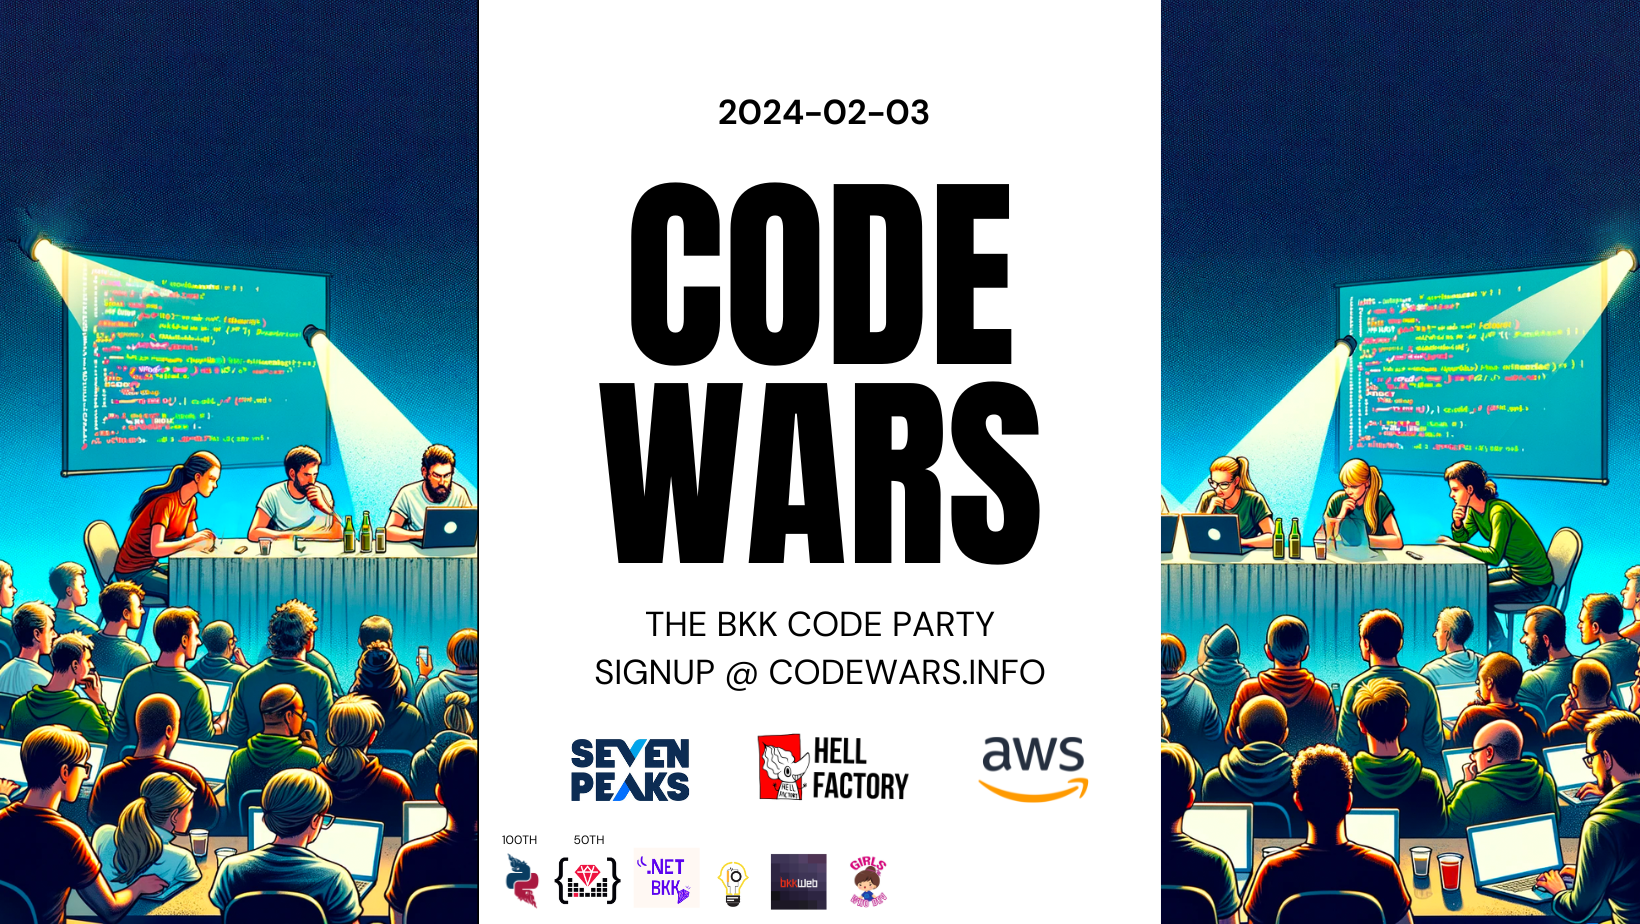
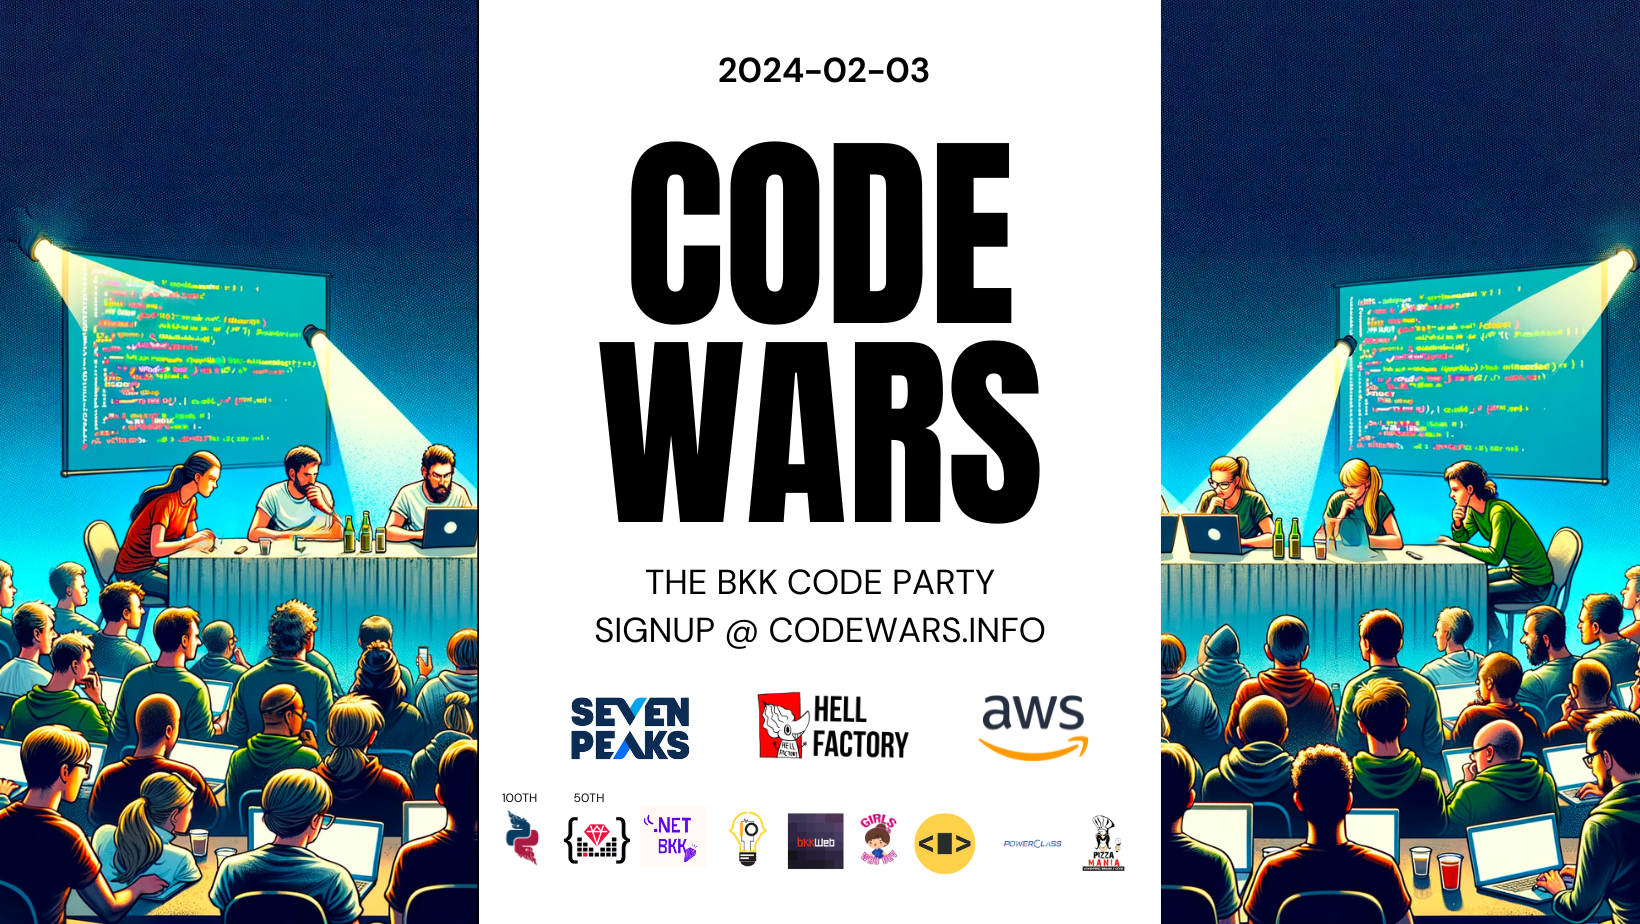
add powerclass

Changed region(s): [[0.311, 0.0606, 0.6841, 1.0]]

diff --git a/_posts/2024-02-03-codewars-bkk-2024.md b/_posts/2024-02-03-codewars-bkk-2024.md
@@ -16,6 +16,7 @@ Next CodeWars will be in Bangkok on Saturday 3rd February 2024, with 150-200 dev
 - Supporting Communities: [ThaiPy](thaipy.github.io), [Bangkok.rb](https://bangkokrb.org/), 
   [.NET Thailand](https://www.meetup.com/dotnet-bkk/), [Thai Programmer](https://www.thaiprogrammer.org/),
   [BKK Web](https://www.eventbrite.com/o/bkk-web-13116740934), [Girls Who Dev](https://www.facebook.com/girlswhodev/), [showdown.space](https://web.facebook.com/showdown.space)
+  [PowerClass](https://powerclass.org/)
 
 <a class="btn btn-primary btn-lg btn-block" href="https://docs.google.com/forms/d/e/1FAIpQLSe7KKtFGwe5Y68-OVs9MgX_kUqWSN8WD78nmOjjozzEUvVCdg/viewform" role="button">Register for Free Tickets</a>
 
@@ -63,7 +64,7 @@ You can use any programming language! Popular languages include Python, Ruby, Ja
 ### Will there be food and drink?
 There will be snacks like pizza and soft drinks available for free thanks to our sponsors. We will have an offical snack break at 17:15pm. Note no alcohol is allowed at AIS DC.
 
-### Can I create my team before the event?</summary>
+### Can I create my team before the event?
 It's great if you can come with a team, but you will still need to compete in the qualification round. If at least of one of your team solves the qualification round fastest, they can invite others to join their team of 3-5 people for the knockout round.
 
 ### Can I come alone without a team?

diff --git a/index.md b/index.md
@@ -21,7 +21,8 @@ Next CodeWars will be in Bangkok on Saturday 3rd February 2024, with 150-200 dev
 - Thank you to our Sponsors: [Seven Peaks](https://sevenpeakssoftware.com/), [Hell Factory](https://www.hellfactory.com/), [AWS Thailand](https://aws.amazon.com/th/).
 - Supporting Communities: [ThaiPy](https://thaipy.github.io), [Bangkok.rb](https://bangkokrb.org/), 
   [.NET Thailand](https://www.meetup.com/dotnet-bkk/), [Thai Programmer](https://www.thaiprogrammer.org/),
-  [BKK Web](https://www.eventbrite.com/o/bkk-web-13116740934), [Girls Who Dev](https://www.facebook.com/girlswhodev/), [showdown.space](https://web.facebook.com/showdown.space)
+  [BKK Web](https://www.eventbrite.com/o/bkk-web-13116740934), [Girls Who Dev](https://www.facebook.com/girlswhodev/), [showdown.space](https://web.facebook.com/showdown.space), 
+  [Powerclass](https://powerclass.org/)
 
 <a class="btn btn-primary btn-lg btn-block" href="https://docs.google.com/forms/d/e/1FAIpQLSe7KKtFGwe5Y68-OVs9MgX_kUqWSN8WD78nmOjjozzEUvVCdg/viewform" role="button">Register for Free Tickets</a>
 
